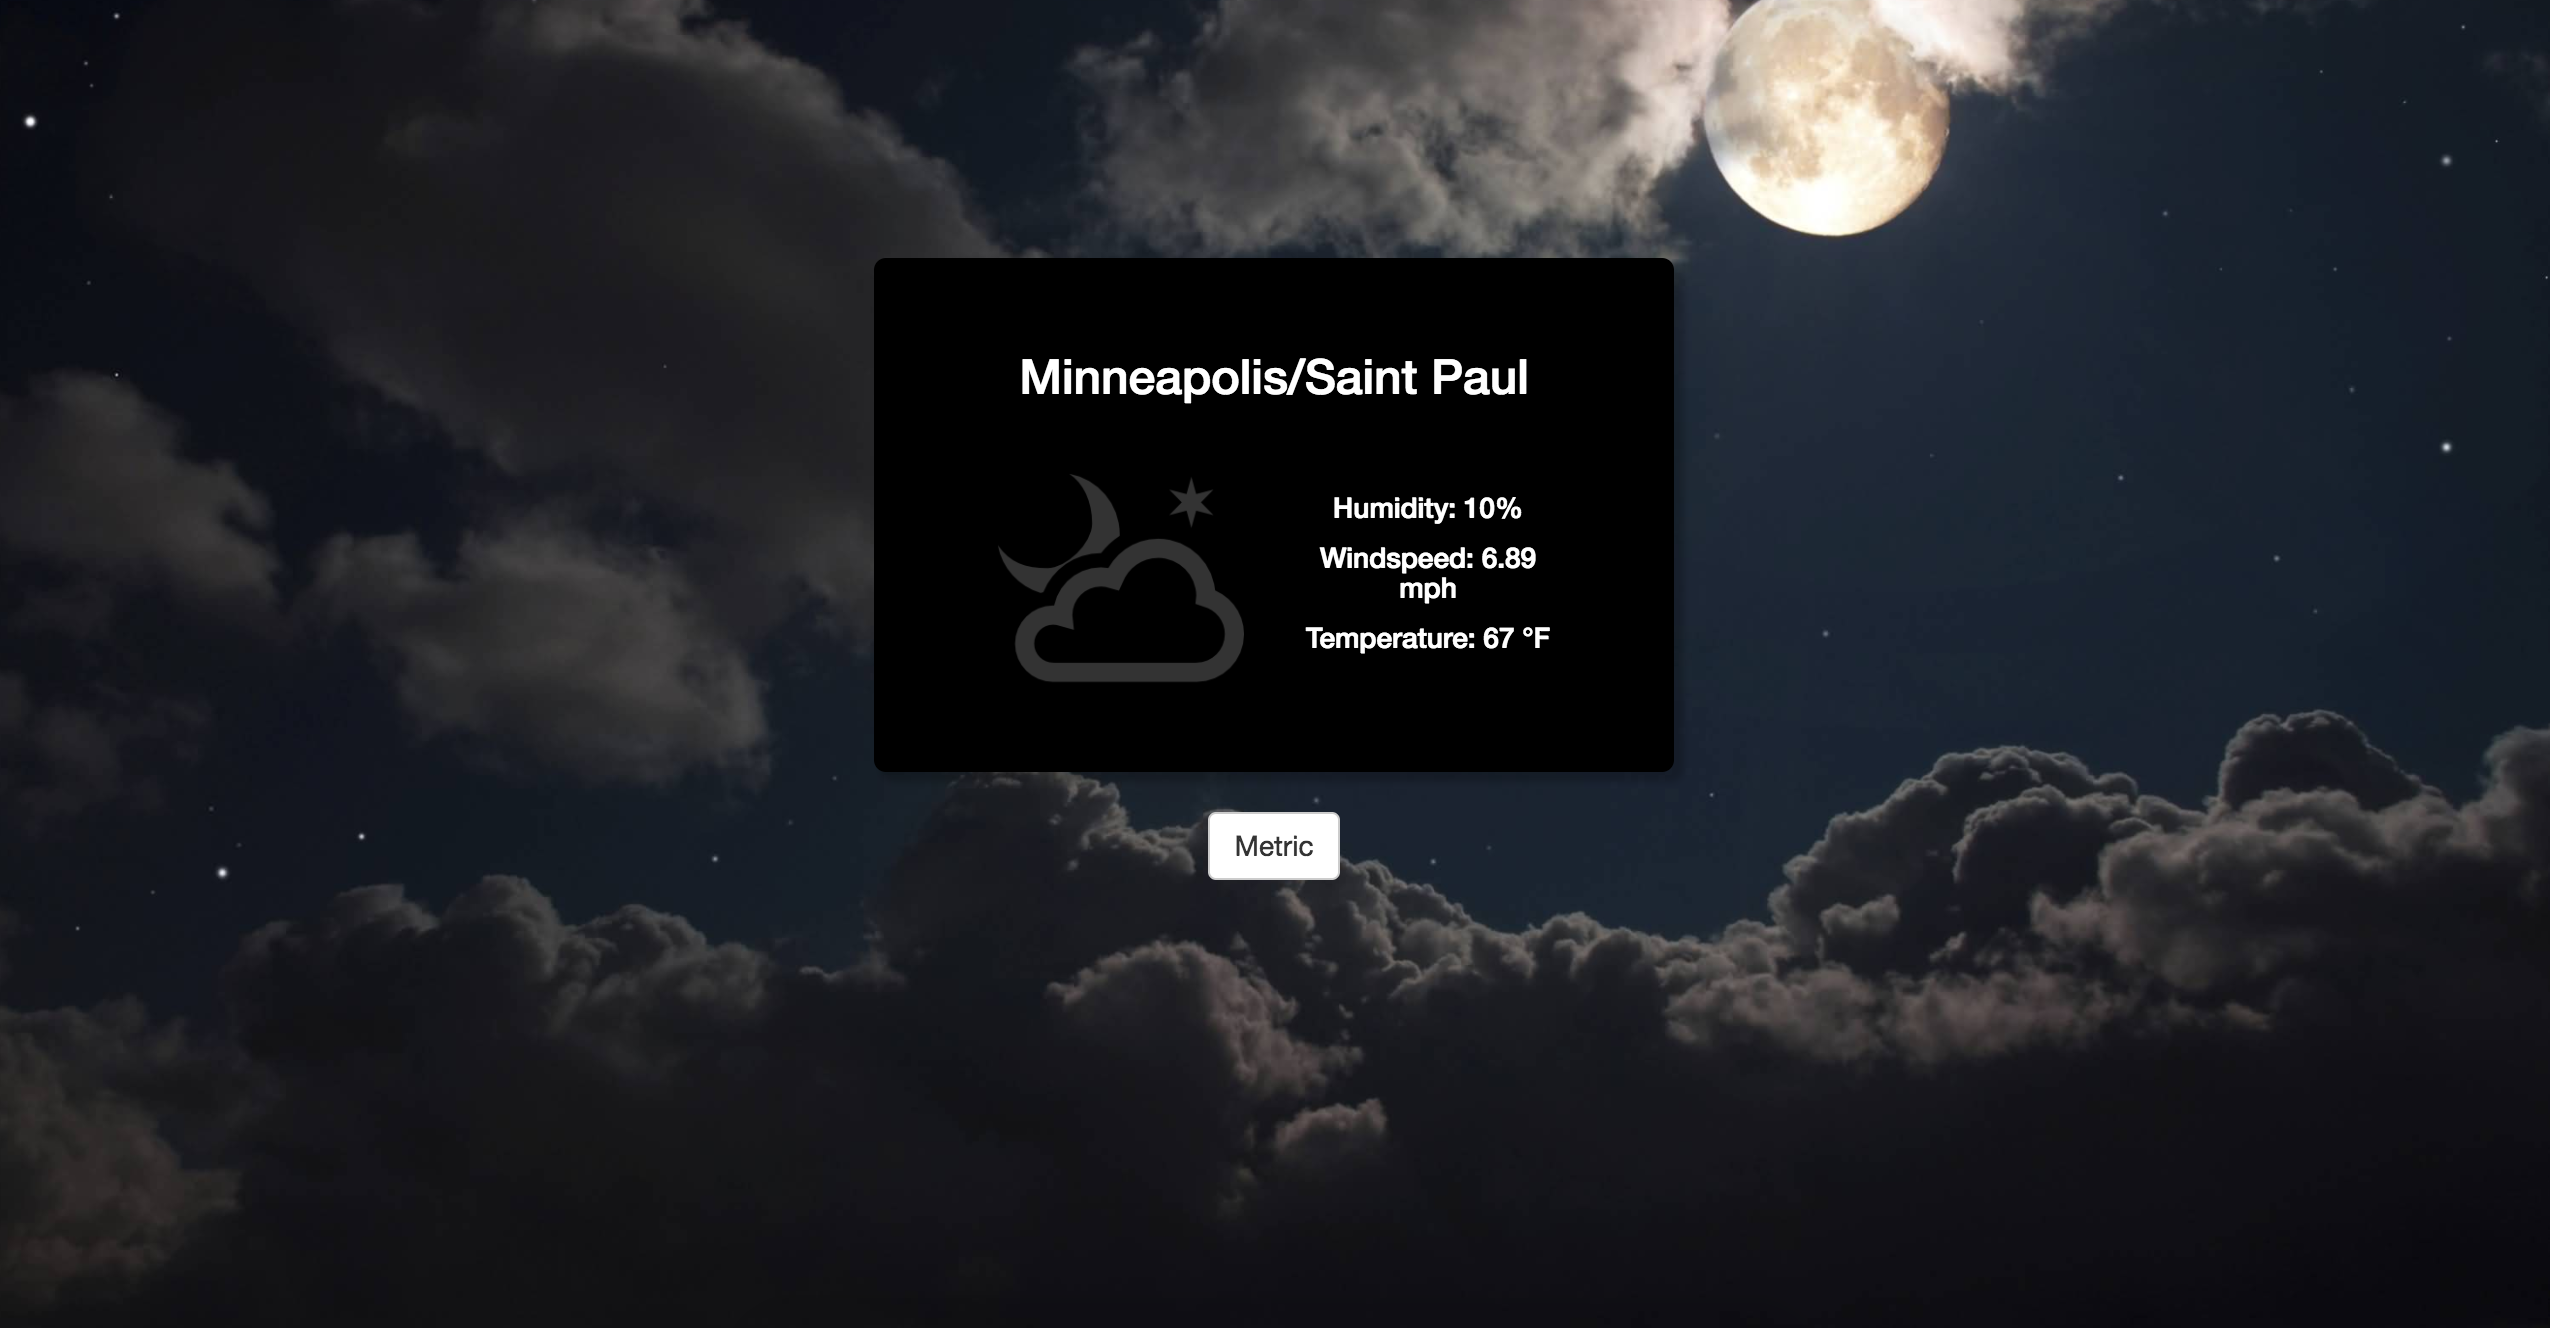
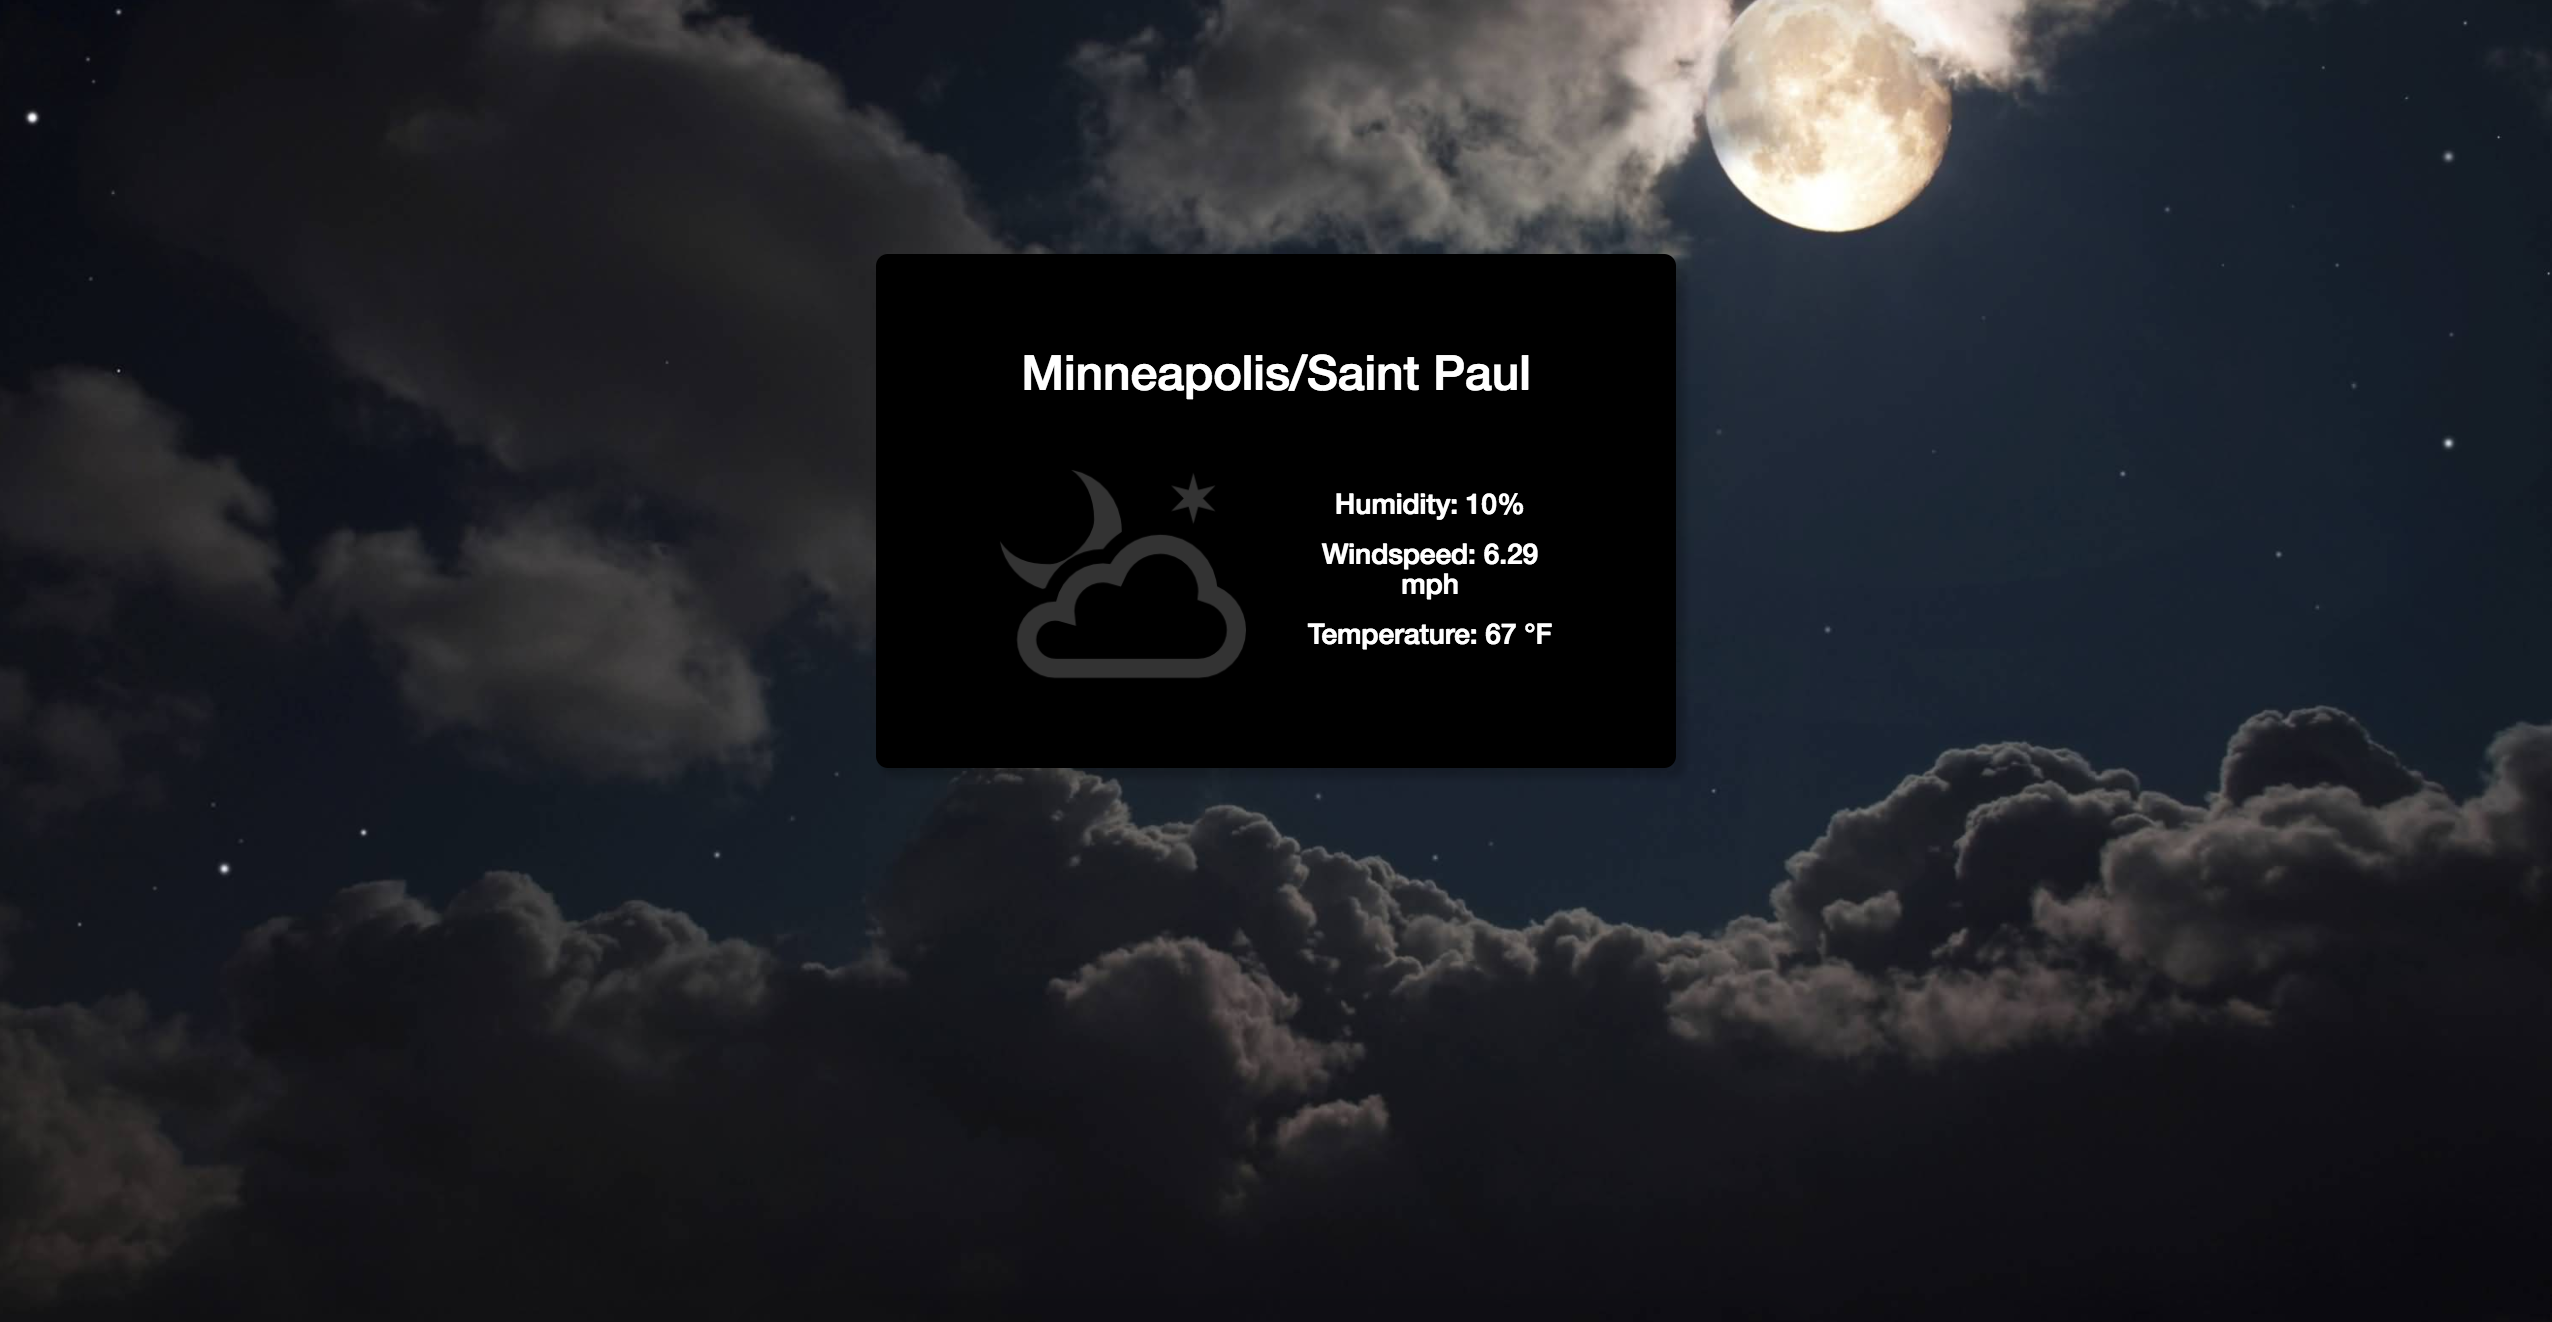
removed metric button

diff --git a/public/index.html b/public/index.html
@@ -39,7 +39,7 @@
     </div>
   </div>
 
-  <button id="change" class="btn btn-default"> Metric </button>
+  <!-- <button id="change" class="btn btn-default"> Metric </button> -->
 
 </body>
 
